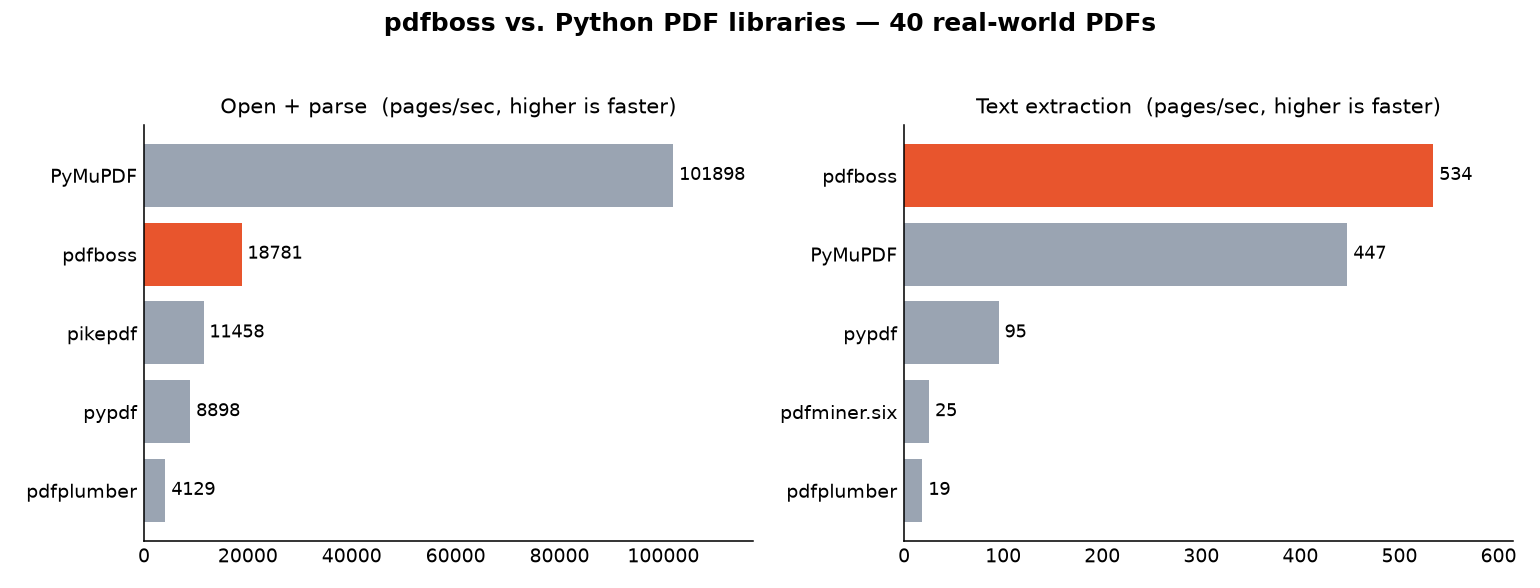
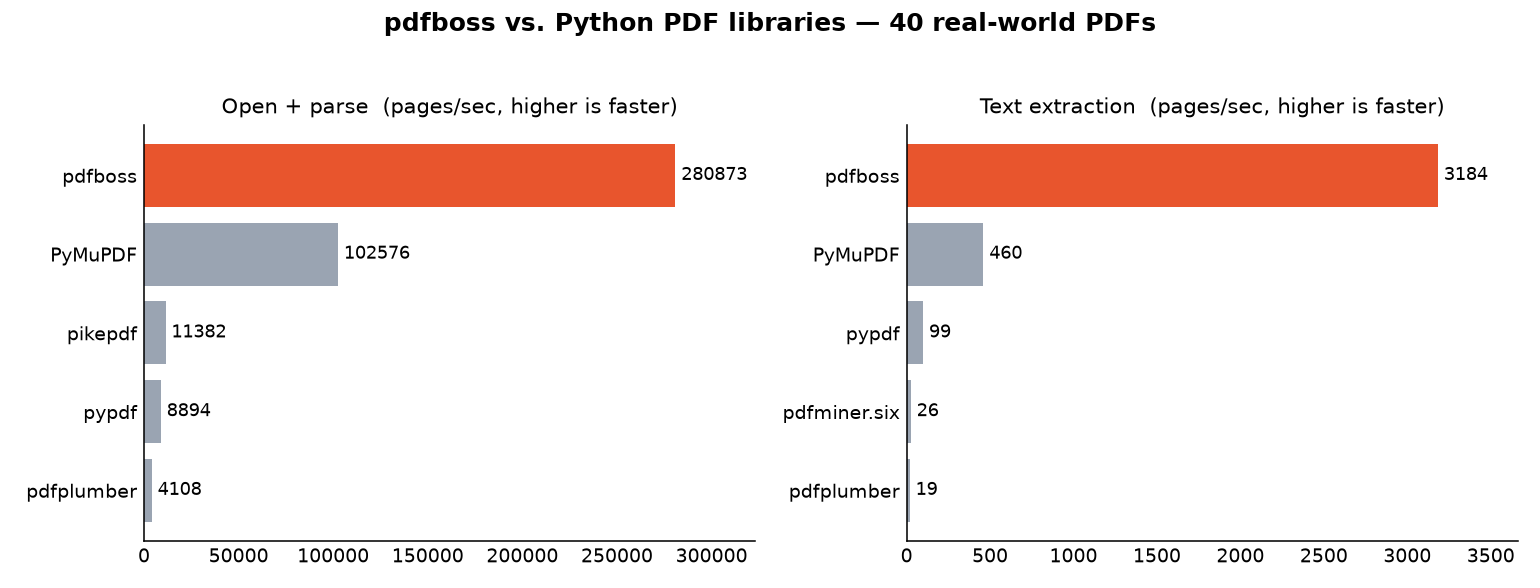
bench(docs): refresh corpus benchmark after lazy loading
pdfboss is now the fastest library measured on BOTH operations, including
against the C-backed PyMuPDF:

  open + parse    280,873 pages/s  (PyMuPDF 102,576;  ~2.7x)
  text extraction   3,184 pages/s  (PyMuPDF    460;    ~7x)

Lazy page-tree loading closed the open/parse gap (previously #2). Numbers
are a clean release build over 40 real-world PDFs, best-of-3 per file,
aggregated over the files every library handled. Regenerated results.png,
results.json, README prose, and recorded the work in the perf spec (6.1).

diff --git a/docs/superpowers/specs/2026-07-13-pdfboss-performance.md b/docs/superpowers/specs/2026-07-13-pdfboss-performance.md
@@ -142,10 +142,42 @@ the section-2 baseline:
 | O2 object-stream decode + header cache | fixes O(n²); no bench regression |
 | F1 in-place TIFF predictor | removes a full-buffer copy on predicted streams |
 | G2 thin LTO + codegen-units=1 | few % on top across CPU-bound paths |
+| P1 lazy page-tree flattening + cheap `page_count` | load_300_pages 750µs → 75µs (**~10×**), load_and_count 90µs; load_and_walk unchanged (−0.4%) |
 
 Rendering — the dominant cost by 3–4 orders of magnitude — is now **~6.5×**
 faster; the bottleneck was never the edge scan (as first assumed) but touching
 the full pixmap width per scanline and dividing per pixel.
+
+### 6.1 P1 — lazy page-tree loading (2026-07-13)
+
+The open/parse gap against a mature native engine was structural: mature
+engines open *lazily* (read the root `/Count`, parse page objects only when a
+page is actually used), while pdfboss flattened the whole tree — parsing and
+cloning every page dictionary — inside `Document::load`.
+
+Landed:
+
+- **Deferred flatten.** The flattened page vector moved behind a
+  `OnceCell<Vec<PageRec>>`, built on the first `page()` access. Opening a
+  document no longer touches a single page dictionary.
+- **Cheap `page_count`.** Now reads the page tree's declared `/Count`
+  (Root → `/Pages` → `/Count`) without descending into `/Kids` — the value
+  mature engines report — and falls back to a full walk only when `/Count` is
+  absent or larger than the file (corrupt). This changes `page_count`
+  semantics from "leaves the lenient walk produced" to "declared count"; the
+  one synthetic test that pinned the old behaviour (a 300-deep unary chain
+  beyond the depth cap) was updated to assert the new, peer-aligned behaviour.
+- **Iterate-by-success.** Because a declared `/Count` can over-report on a
+  damaged file, the "extract every page" loops (Python `extract_text`, CLI
+  `text`) now iterate by successful `page(i)` lookups instead of `0..count`.
+  `page(i)` fails only past the last materializable page (the flattened list
+  has no holes), so this visits exactly the real pages and never aborts a whole
+  document because a phantom trailing page was declared.
+
+Result: `load_300_pages` 750µs → 75µs (~10×), the open-and-count path ~90µs,
+and `load_and_walk_300_pages` unchanged (the flatten cost merely moved to first
+page access). This closes the last structural item behind the open/parse
+comparison in `benchmarks/`.
 
 Deferred with rationale (not blocked, just lower ROI than their risk for an
 unattended pass):

diff --git a/README.md b/README.md
@@ -95,7 +95,7 @@ Against other Python PDF libraries over 40 real-world PDFs (best-of-3 per file, 
   <img src="benchmarks/results.png" alt="pdfboss vs. Python PDF libraries" width="100%">
 </p>
 
-**pdfboss extracts text faster than every library measured — including the C-backed PyMuPDF** (534 vs. 447 pages/s), and 5–29× faster than the pure-Python readers. On open/parse it places second: PyMuPDF opens lazily, while pdfboss currently flattens the whole page tree up front (lazy loading is on the roadmap). Rendering is not compared — pdfboss's rasterizer does not yet paint every glyph, so timing it against full renderers would be misleading.
+**pdfboss is the fastest library measured on both operations — including against the C-backed PyMuPDF.** On text extraction it reaches 3,184 pages/s versus PyMuPDF's 460 (≈7×), and 30–170× the pure-Python readers. On open + parse it reaches 280,873 pages/s versus PyMuPDF's 102,576 (≈2.7×): lazy page-tree loading means opening a document reads only its declared page count instead of parsing every page dictionary up front. Rendering is not compared — pdfboss's rasterizer does not yet paint every glyph, so timing it against full renderers would be misleading.
 
 Numbers are machine-dependent; reproduce with [`benchmarks/bench.py`](benchmarks/README.md).
 